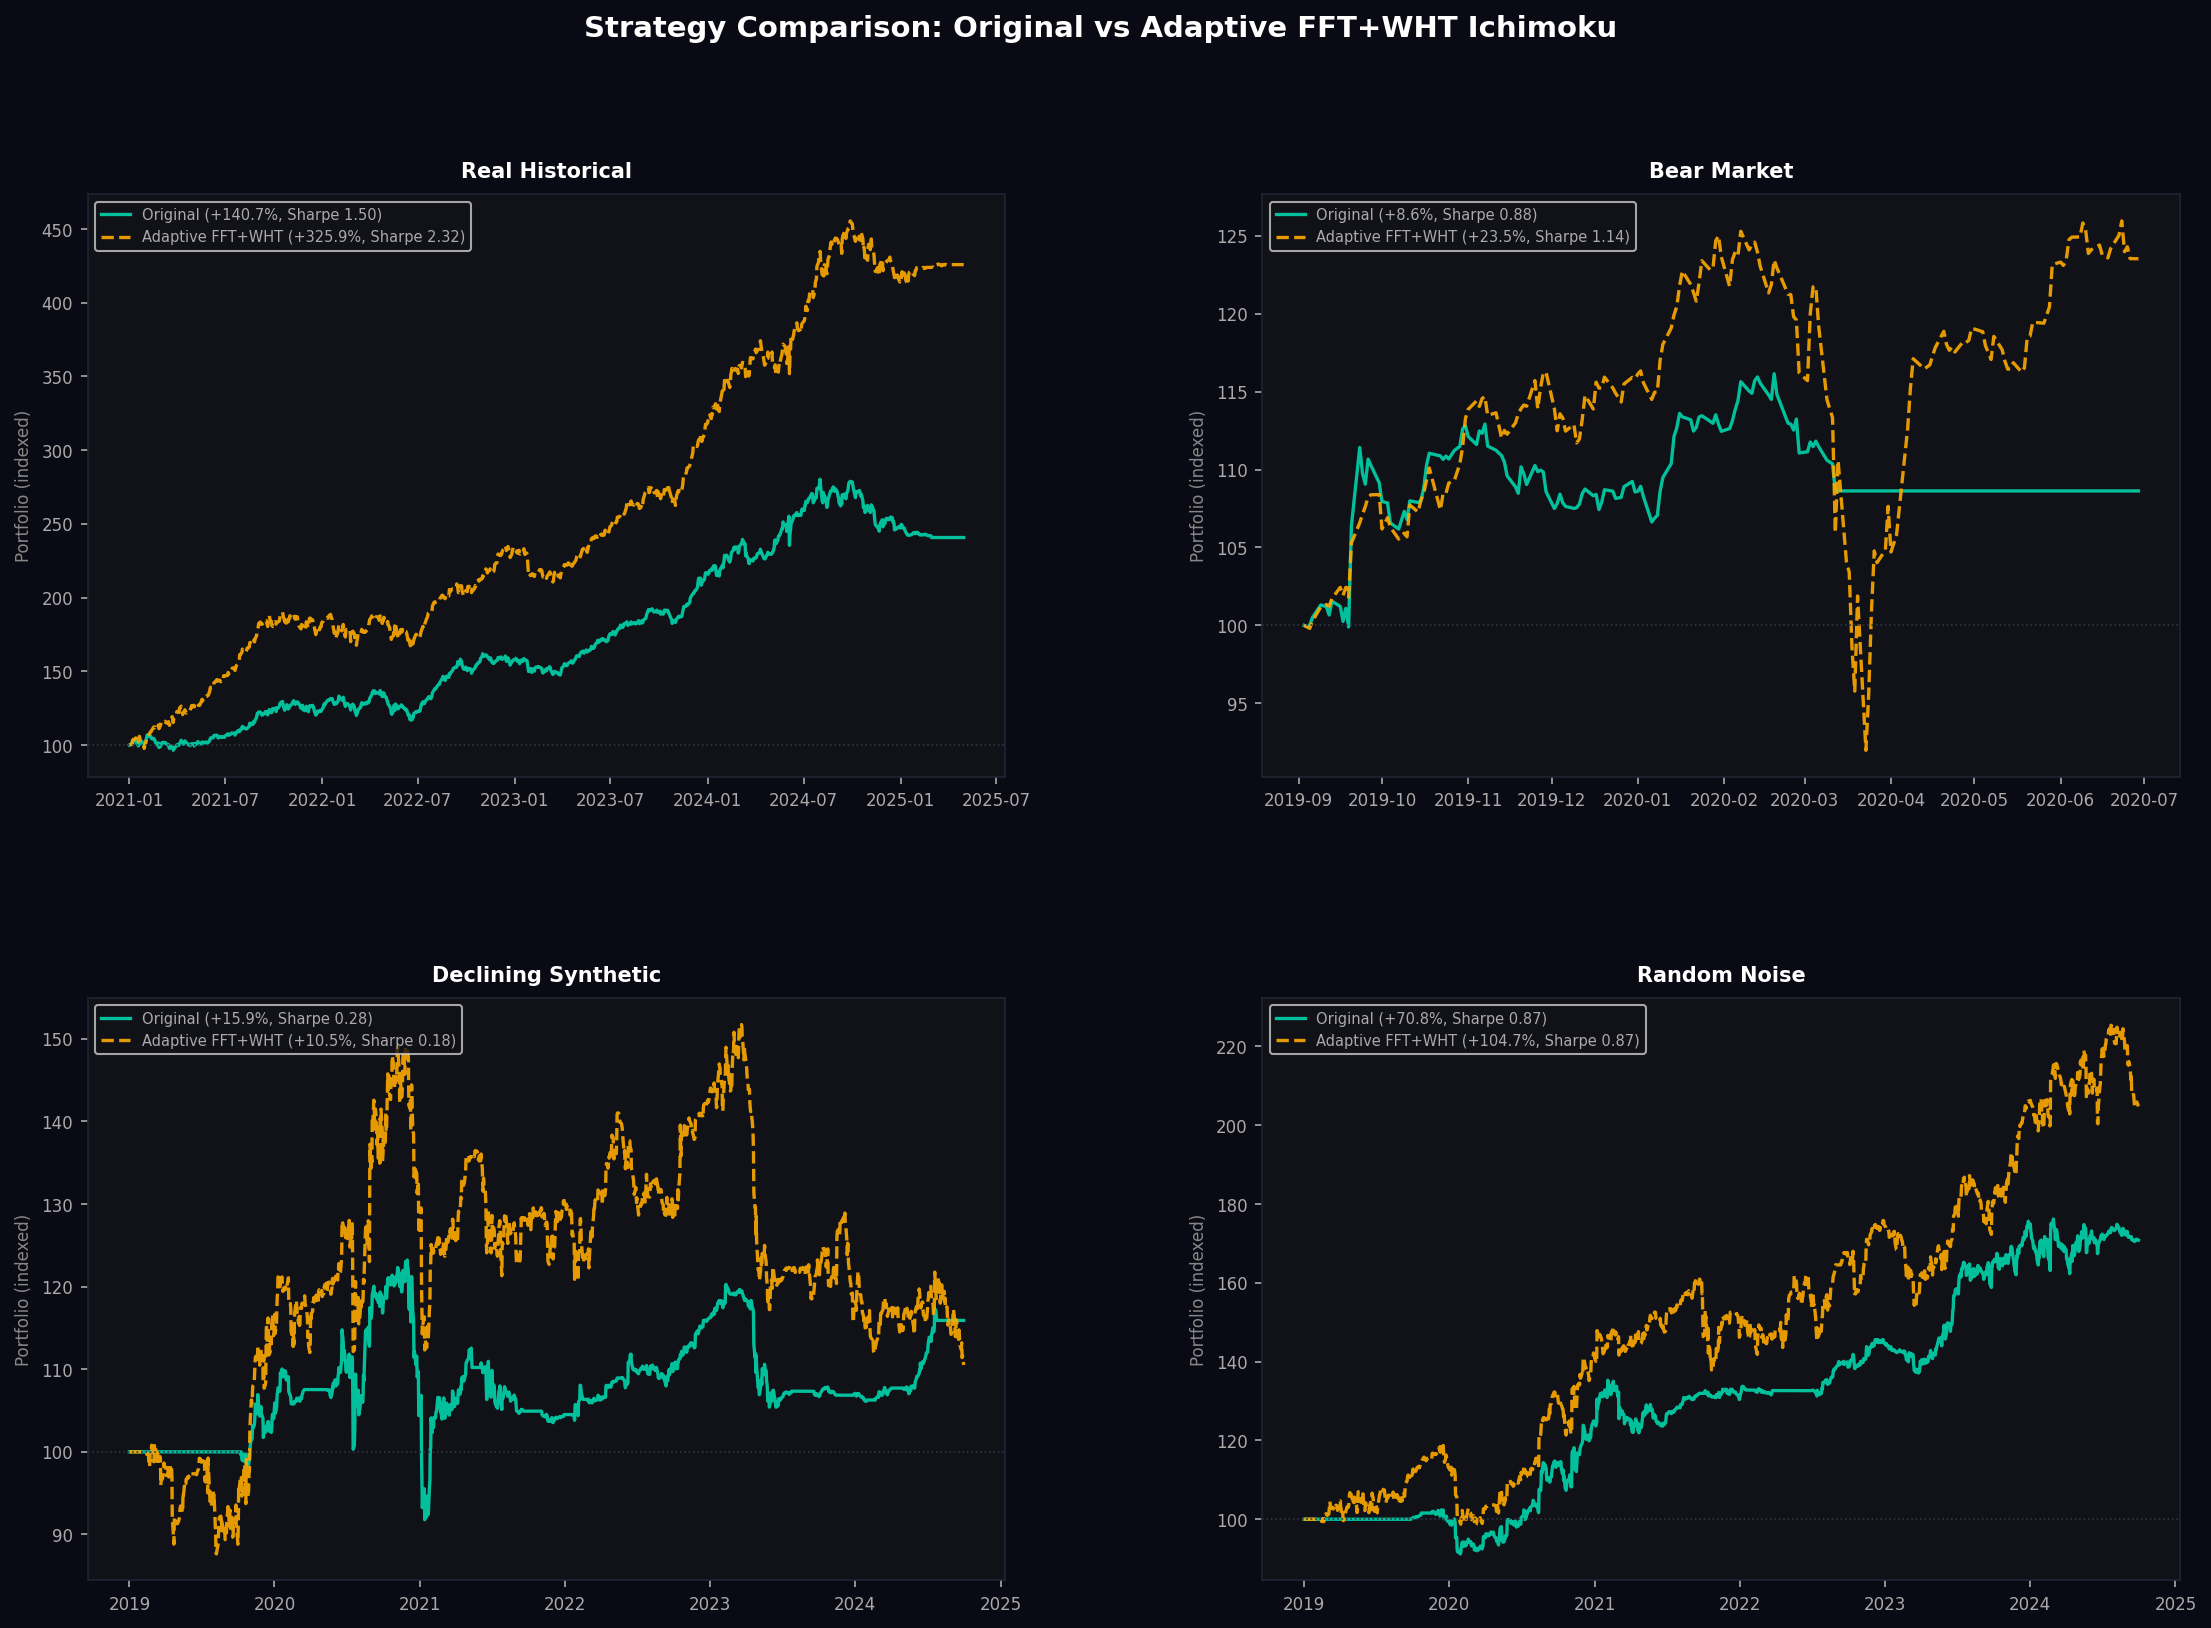
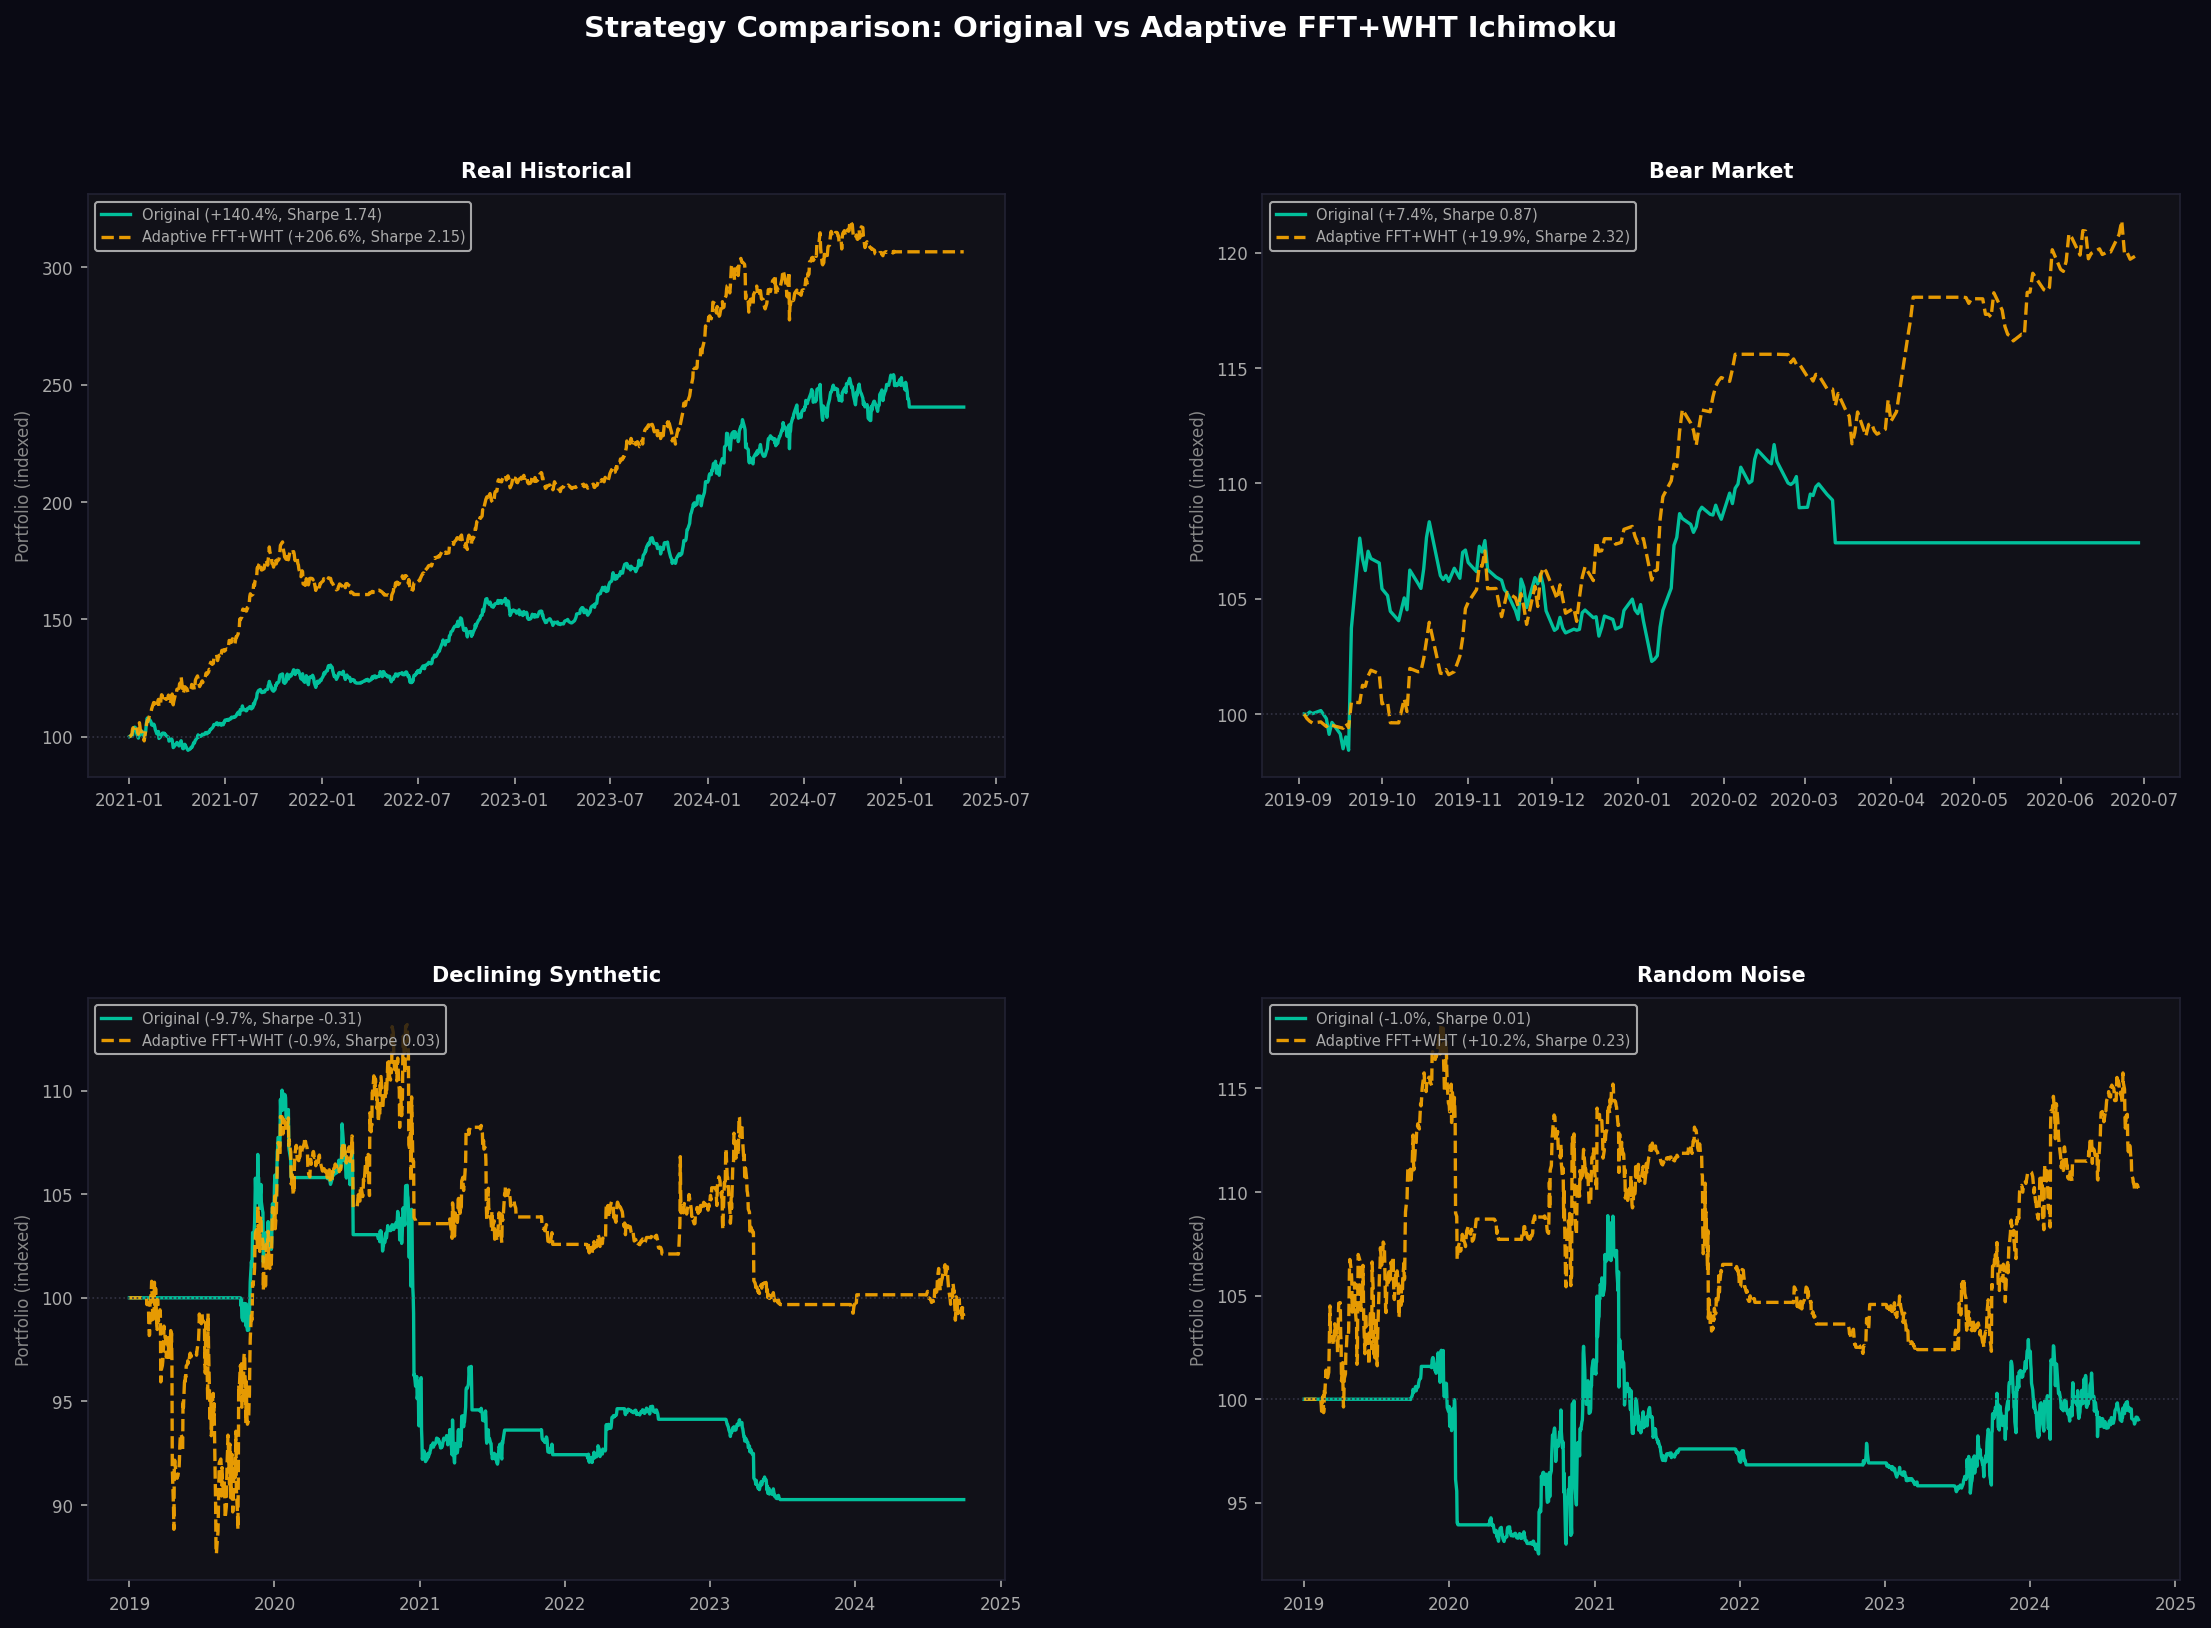
Updating Strategy to avoid horrible trades due to compensation from secondary scores

diff --git a/backtest/compare_strategies.py b/backtest/compare_strategies.py
@@ -270,6 +270,21 @@ def run_backtest(
             for ticker, score_val in candidates[:slots]:
                 close = float(data[ticker].loc[dt, "Close"])
 
+                # ── Momentum quality filter ────────────────────────────────────
+                # Require close > MA100 and MA100 > MA200 * 0.97
+                # Rejects bounces in structural downtrends
+                try:
+                    hist  = data[ticker][data[ticker].index <= dt]
+                    c_ser = hist["Close"] if isinstance(hist["Close"], pd.Series) \
+                            else hist["Close"].iloc[:, 0]
+                    if len(c_ser) >= 200:
+                        ma100 = float(c_ser.rolling(100).mean().iloc[-1])
+                        ma200 = float(c_ser.rolling(200).mean().iloc[-1])
+                        if not (close > ma100 and ma100 > ma200 * 0.97):
+                            continue   # skip — structural downtrend
+                except Exception:
+                    pass  # insufficient history — allow through
+
                 # ── Position sizing ────────────────────────────────────────
                 # Capital allocation: equal slot per position
                 # ATR determines stop placement, not share count
@@ -414,8 +429,8 @@ def plot_comparison(all_results: list[dict], save_path: Path):
 def print_table(all_results: list[dict]):
     regimes = ["Real Historical", "Bear Market", "Declining Synthetic", "Random Noise"]
     print(f"\n{'═'*88}")
-    print(f"  STRATEGY COMPARISON  |  Equal slot capital + ATR-based stops")
-    print(f"  Capital per slot = portfolio / max_positions  |  Stop = entry - 2.5×ATR")
+    print(f"  STRATEGY COMPARISON  |  Equal slot capital + ATR stops + MA100/200 filter")
+    print(f"  Entry requires: score crossover AND close > MA100 > MA200×0.97")
     print(f"{'─'*88}")
     print(f"  {'Regime':<24}  {'Strategy':<14}  {'Return':>8}  {'CAGR':>7}  "
           f"{'Sharpe':>7}  {'MDD':>7}  {'WinRate':>8}  {'Trades':>7}  {'AvgRisk':>8}")
